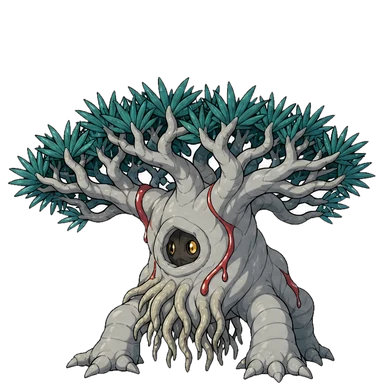
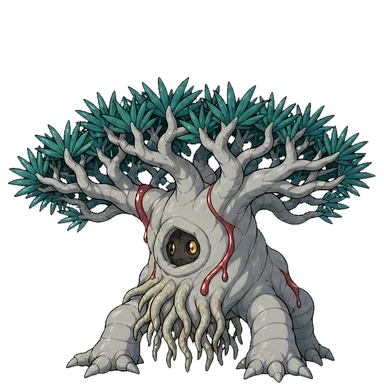
Leyendas de Iberia: quita el fondo blanco atrapado en el drago, el Papemímico, el Trasgorn y el pelotero
Claude-Session: https://claude.ai/code/session_019QNp893dp9bmLNXSwV3RNY

diff --git a/leyendas-de-iberia/src/assets/LEEME.md b/leyendas-de-iberia/src/assets/LEEME.md
@@ -60,6 +60,10 @@ el encalado, etcétera.
 - **Proceso:** la hoja se corta en 2 filas y 3 columnas por las líneas con menos dibujo, se quita
   el fondo blanco (también los huecos grandes interiores), y cada criatura se coloca apoyada abajo
   en un cuadro de 384 px. Las formas débiles ocupan menos del cuadro, así que se ven más pequeñas.
+- **Revisión de huecos:** el fondo blanco que queda encerrado entre ramas, patas o asas no
+  siempre sale en el corte. Hay que mirar cada imagen sobre un fondo oscuro y quitar a mano esos
+  huecos, sin tocar lo que es blanco a propósito (vapor, motas, alas, mármol, brillos de los
+  ojos). Corregidos el 2026-10-25: el drago, el Papemímico, el Trasgorn y el pelotero.
 - Reserva para más adelante: `arte/criaturas-futuras/` (Guayota y la vieja).
 
 ## Objetos (`objetos/`)
